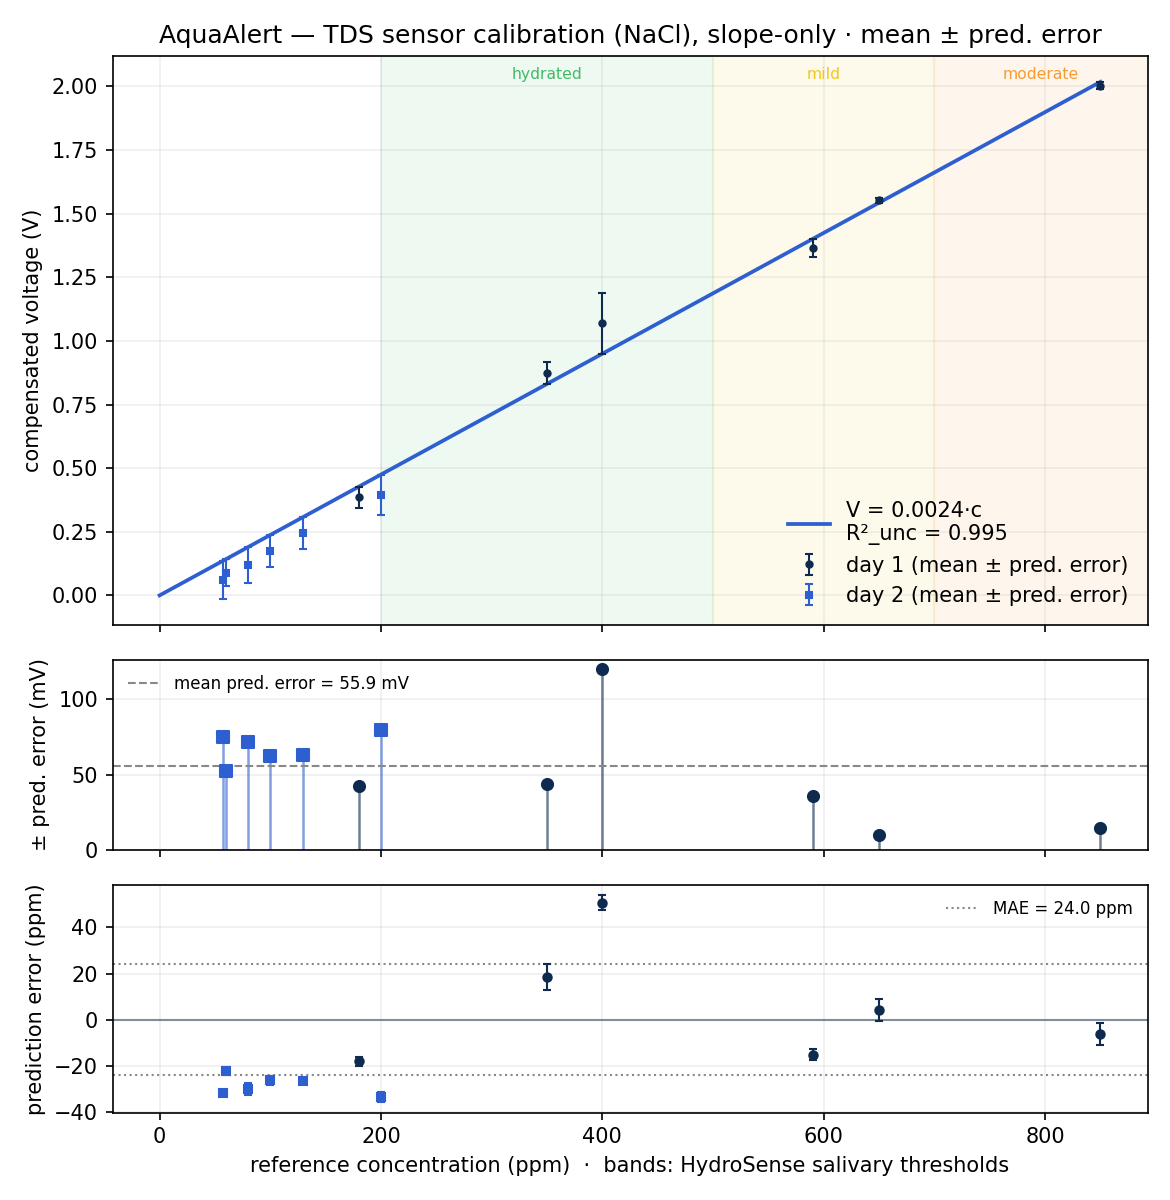
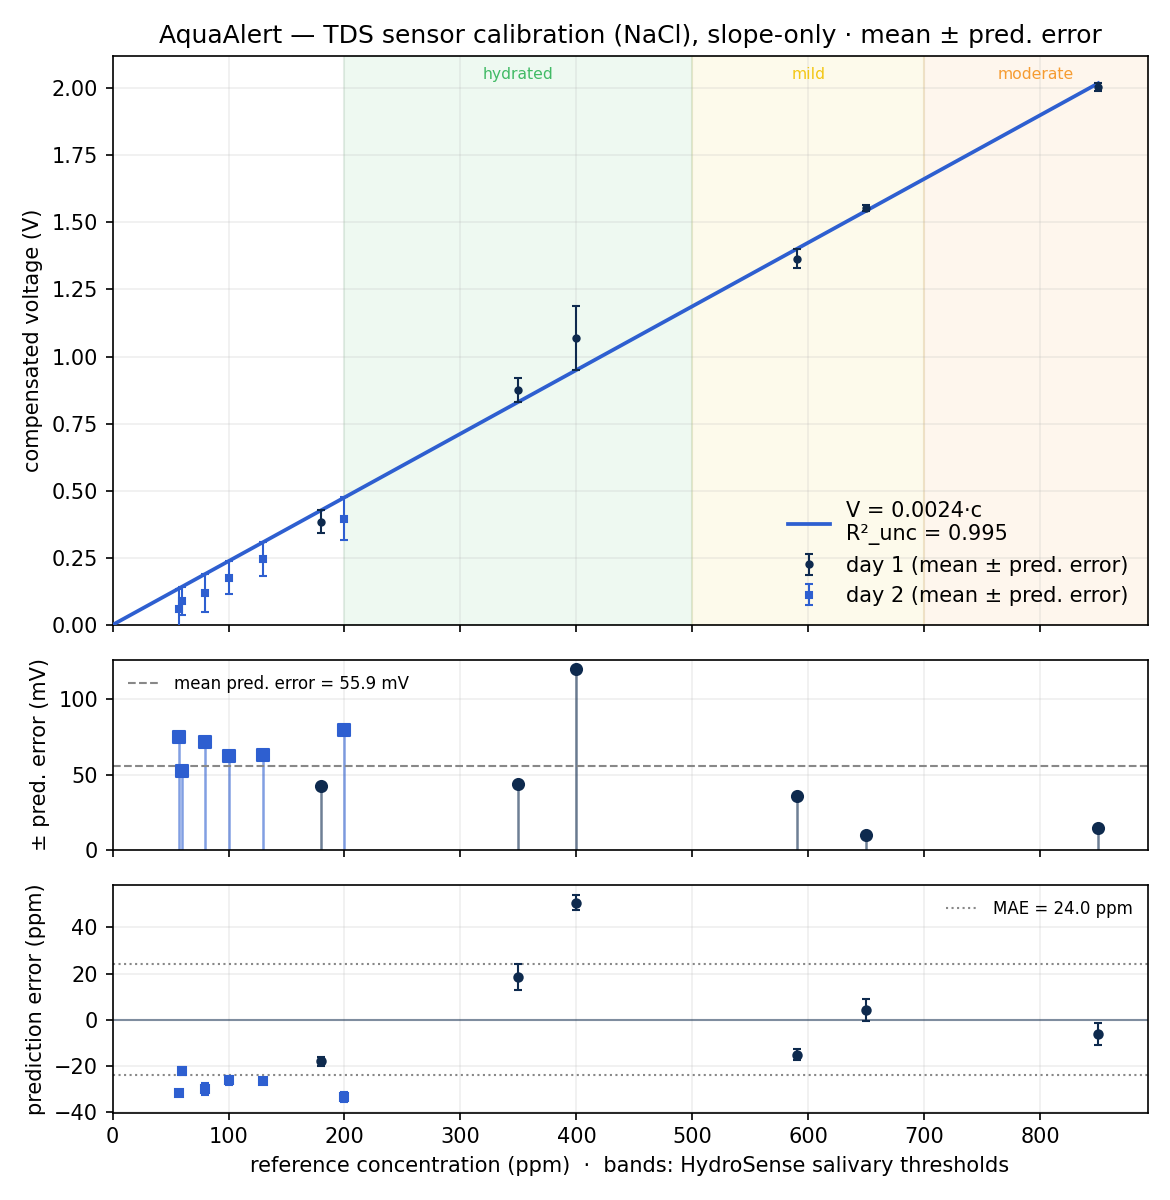
Pin (0,0) to the bottom-left corner so V = m*c clearly starts at the origin

diff --git a/analysis/calibrate.py b/analysis/calibrate.py
@@ -292,6 +292,11 @@ def main() -> None:
         ax.text(df[conc_col].max(), 2.31, "sensor ceiling ~2.3 V",
                 ha="right", va="bottom", fontsize=8, color="#B23A2F")
 
+    # pin the origin to the bottom-left corner so the V = m·c line visibly
+    # starts at (0, 0) — matplotlib's auto-padding otherwise leaves a small gap
+    ax.set_xlim(left=0)
+    ax.set_ylim(bottom=0)
+
     # HydroSense (IJSRSET 2025) salivary hydration bands, in ppm TDS
     if not args.no_bands and unit == "ppm":
         x0, x1 = ax.get_xlim()
